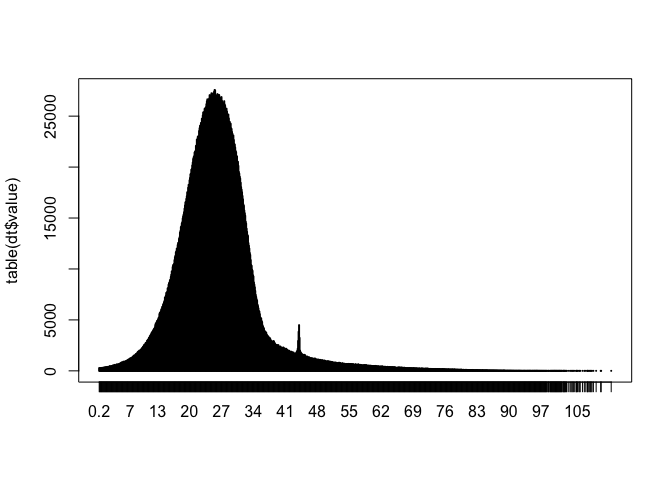
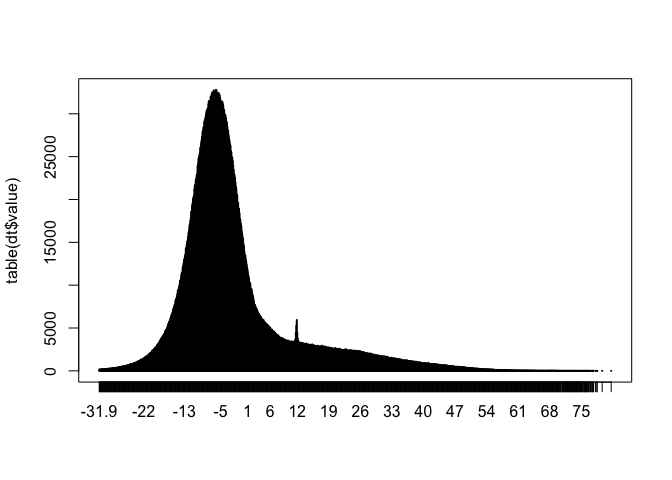
h5 readme + jasmin docs

diff --git a/rhdf5/README.md b/rhdf5/README.md
@@ -3,7 +3,10 @@ Going from hdf5 to PointClouds
 
 ## Load 24hr data
 
-For this Rmd file, we will try 50 files out of some 540
+For this Rmd file, we will try 50 files out of some \~540. According to
+\[@martin2007discrimination\], a typical dBZ is (17). There does not
+seem to be a standard let a lone a gold standard value as elsewhere it
+was something like 0-4dbZ.
 
 ``` r
 library(data.table)
@@ -18,18 +21,16 @@ library(bioRad)
 
     ## Welcome to bioRad version 0.5.2
 
-    ## Warning: Docker daemon is not running
+    ## Docker daemon running, Docker functionality enabled
 
-    ## Warning: bioRad functionality requiring Docker has been disabled
-    ## 
-    ## To enable Docker functionality, start Docker and run 'check_docker()'
-    ## in R
+    ## No vol2bird Docker image found. Please run update_docker() to download.
 
 ``` r
 library(magrittr)
 p = "~/Documents/Research/BioDAR/Example_Met_Office_H5_Data_Share/"
 n = 50
-files = list.files(p, full.names = TRUE, pattern="polar_pl")
+# keep the sample to 0 degrees?
+files = list.files(p, full.names = TRUE, pattern="_polar_pl_radar20b0")
 files = sample(files, n)
 
 d = unlist(lapply(files, function(x)h5read(x, "dataset1/data1/data")))
@@ -59,7 +60,7 @@ dt$long = rl[[1]]$lon + delta_lon
 go = lapply(files, function(x)h5readAttributes(x,"dataset1/data1/what"))
 
 dt$gain = rep(unlist(lapply(go, function(x) x$gain)), 360*425)
-dt$offset = rep(unlist(lapply(go, function(x) x$gain)), 360*425)
+dt$offset = rep(unlist(lapply(go, function(x) x$offset)), 360*425)
 
 # add in the dates (time really)
 l = gregexpr("_polar_pl_radar20", basename(files[1]))
@@ -82,18 +83,13 @@ rm(delta_lon, delta_lat, go)
 
 # bio targets between 0 & 2
 # dt = dt[dt$value > 0 & dt$value <= 2]
-plot(table(dt$value))
-```
-
-![](README_files/figure-gfm/24hr-sample-1.png)<!-- -->
-
-``` r
+# plot(table(dt$value[dt$value]))
 # summary of values
 summary(dt$value)
 ```
 
     ##    Min. 1st Qu.  Median    Mean 3rd Qu.    Max. 
-    ##    0.20   20.90   25.50   26.26   30.10  112.40
+    ##  -31.90   -9.30   -5.20   -1.93    0.40   80.30
 
 ## Understand .h5
 
